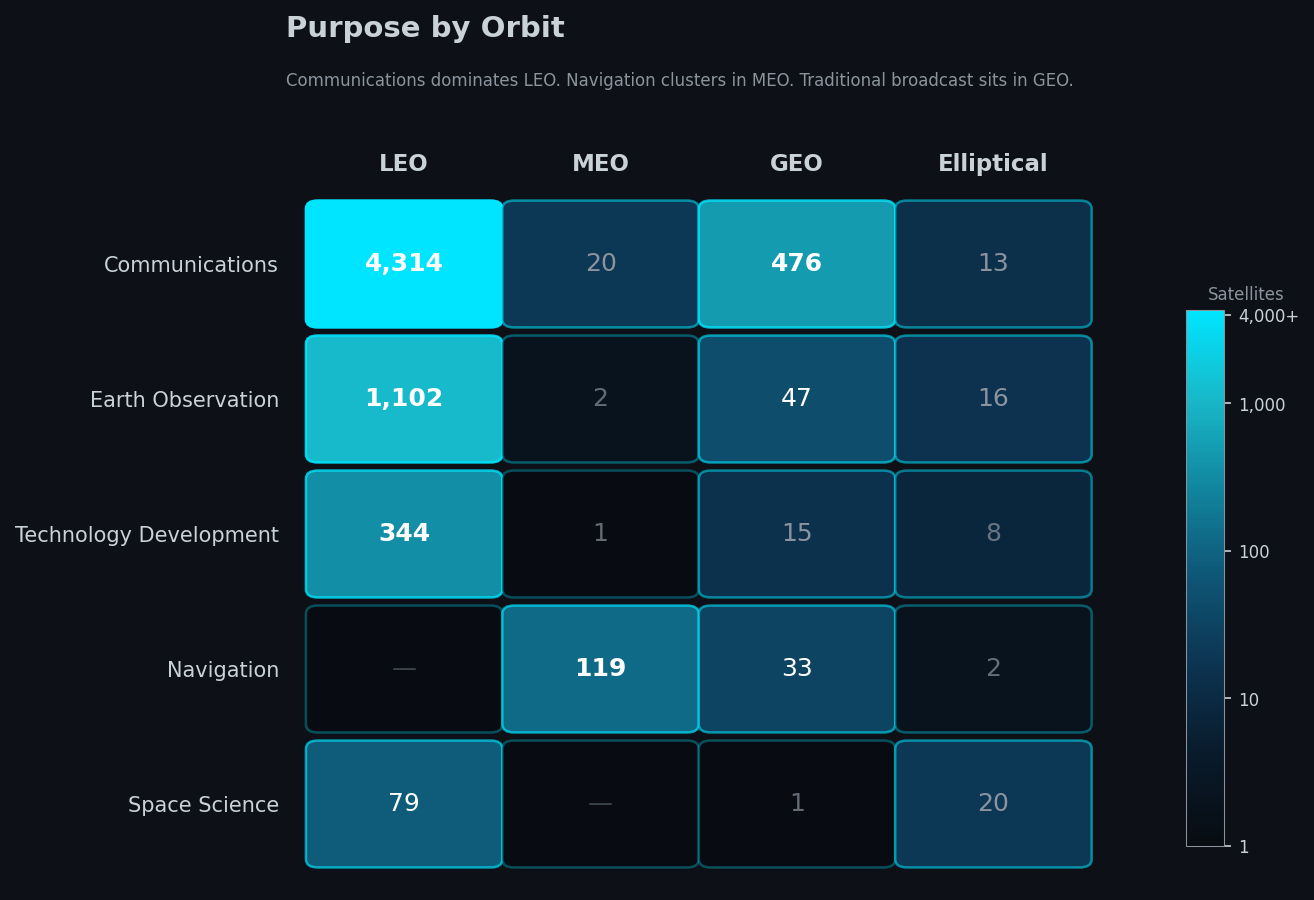
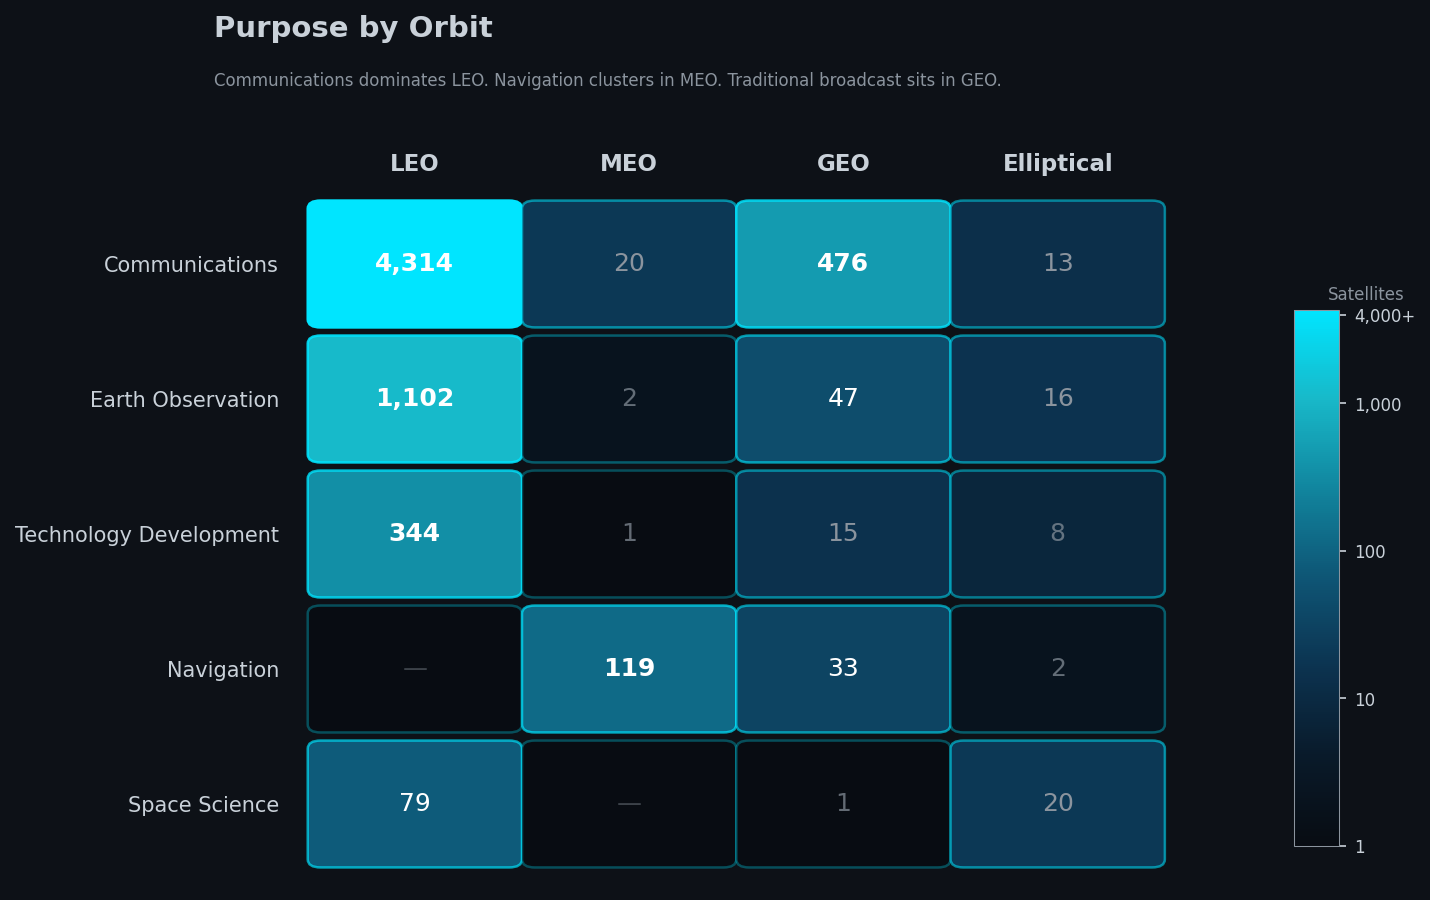
widen heatmap wireframe so purpose labels are not cut off

diff --git a/milestones/milestone2/wireframes.py b/milestones/milestone2/wireframes.py
@@ -11,8 +11,10 @@ import os
 
 os.makedirs("../img/wireframes", exist_ok=True)
 
-# Load satellite data
-with open("../../website/data/satellites.json", "r") as f:
+# Load satellite data (resolve relative to this script's location)
+_script_dir = os.path.dirname(os.path.abspath(__file__))
+_data_path = os.path.join(_script_dir, "..", "..", "prototype", "data", "satellites.json")
+with open(_data_path, "r") as f:
     SAT_DATA = json.load(f)
 
 # Shared style
@@ -242,8 +244,8 @@ plt.close()
 # ============================================================
 from matplotlib.colors import LinearSegmentedColormap
 
-fig = plt.figure(figsize=(10, 6.5), facecolor=DARK_BG)
-ax = fig.add_axes([0.18, 0.08, 0.55, 0.72])
+fig = plt.figure(figsize=(12, 6.5), facecolor=DARK_BG)
+ax = fig.add_axes([0.22, 0.08, 0.50, 0.72])
 ax.set_facecolor(DARK_BG)
 ax.spines["top"].set_visible(False)
 ax.spines["right"].set_visible(False)
